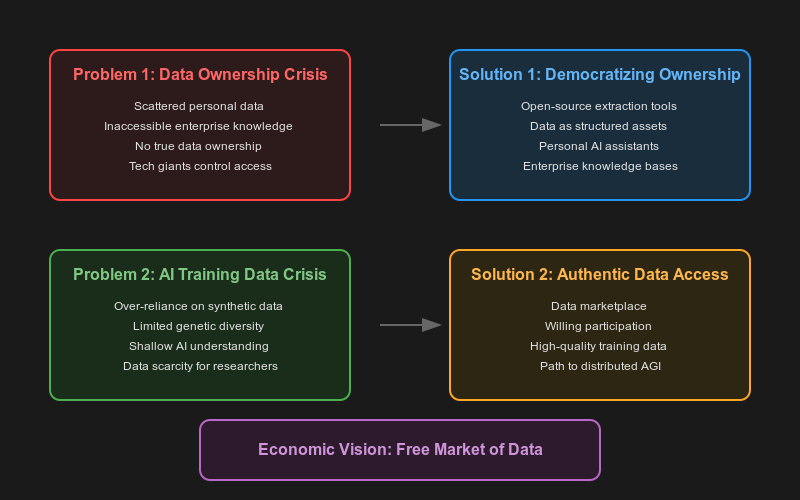
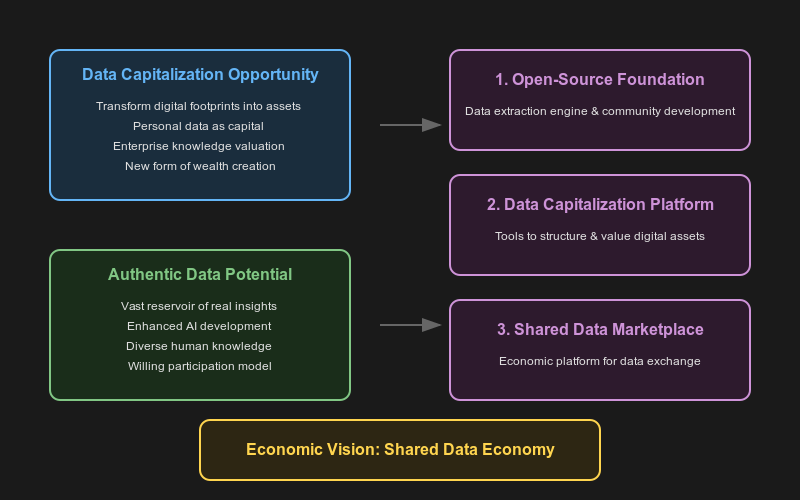
Refactor mission section in README and add mission diagram

diff --git a/MISSION.md b/MISSION.md
@@ -2,44 +2,45 @@
 
 ![Mission Diagram](./docs/assets/pitch-dark.svg)
 
-## The Two Critical Challenges in AI's Future
+### 1. The Data Capitalization Opportunity
 
-### 1. The Data Ownership Crisis
+We live in an unprecedented era of digital wealth creation. Every day, individuals and enterprises generate massive amounts of valuable digital footprints across various platforms, social media channels, messenger apps, and cloud services. While people can interact with their data within these platforms, there's an immense untapped opportunity to transform this data into true capital assets. Just as physical property became a foundational element of wealth creation, personal and enterprise data has the potential to become a new form of capital on balance sheets.
 
-In today's digital world, there's a fundamental disconnect between data generation and data ownership. Individuals and enterprises generate vast amounts of valuable information, yet they lack true ownership and control over this data. For individuals, digital footprints are scattered across various platforms, social media channels, messenger apps, and cloud storage services. While they can view and interact with this information within each platform, they cannot truly own, analyze, or leverage it as an asset.
+For individuals, this represents an opportunity to transform their digital activities into valuable assets. For enterprises, their internal communications, team discussions, and collaborative documents contain rich insights that could be structured and valued as intellectual capital. This wealth of information represents an unprecedented opportunity for value creation in the digital age.
 
-The situation is equally challenging for enterprises. Companies generate immense amounts of valuable information through internal communications, team chats, and shared files, but this knowledge remains unstructured and inaccessible. The inability to fully harness this data prevents organizations from building specialized AI tools or leveraging their collective knowledge effectively. Meanwhile, tech giants maintain privileged access to and profit from this data, creating an imbalance in the digital economy.
+### 2. The Potential of Authentic Data
 
-### 2. The AI Training Data Quality Crisis
+While synthetic data has played a crucial role in AI development, there's an enormous untapped potential in the authentic data generated by individuals and organizations. Every message, document, and interaction contains unique insights and patterns that could enhance AI development. The challenge isn't a lack of data - it's that most authentic human-generated data remains inaccessible for productive use.
 
-As AI development accelerates, we face a growing crisis in training data quality. The increasing reliance on synthetic data, while necessary given current limitations, raises serious concerns about the future of AI development. Synthetic data, by its nature, lacks the genetic diversity and authentic complexity found in real human-generated content. This limitation could lead to AI systems that appear sophisticated but lack deep understanding and genuine intelligence.
+By enabling willing participation in data sharing, we can unlock this vast reservoir of authentic human knowledge. This represents an opportunity to enhance AI development with diverse, real-world data that reflects the full spectrum of human experience and knowledge.
 
-The irony is that while AI researchers struggle with data scarcity and turn to synthetic alternatives, vast amounts of authentic, human-generated data remain locked away in personal and enterprise digital spaces. This disconnection between available authentic data and AI development needs threatens to create a bottleneck in the advancement toward more sophisticated and genuinely intelligent AI systems.
+## Our Pathway to Data Democracy
 
-## Our Two-Pronged Solution
+### 1. Open-Source Foundation
 
-### 1. Democratizing Data Ownership
+Our first step is creating an open-source data extraction engine that empowers developers and innovators to build tools for data structuring and organization. This foundation ensures transparency, security, and community-driven development. By making these tools openly available, we enable the technical infrastructure needed for true data ownership and capitalization.
 
-We are creating foundational tools for true data ownership and control. Through our open-source data extraction engine, we enable individuals and organizations to structure, retrieve, and fully own their digital footprints. This technology allows users to consolidate their scattered data into organized, usable assets that they can analyze, share, or leverage as they see fit.
+### 2. Data Capitalization Platform
 
-Our solution transforms raw digital information into structured, valuable assets. For individuals, this means the ability to build personal AI assistants or monetize their data. For enterprises, it enables the creation of private language models based on their collective knowledge, enhancing productivity and innovation while maintaining data security.
+Building on this open-source foundation, we're developing a platform that helps individuals and enterprises transform their digital footprints into structured, valuable assets. This platform will provide the tools and frameworks needed to organize, understand, and value personal and organizational data as true capital assets.
 
-### 2. Expanding Access to Authentic Data
+### 3. Creating a Data Marketplace
 
-By empowering individuals and organizations to own their data, we simultaneously create new opportunities for willing participation in AI development. Our platform facilitates a marketplace where individuals and enterprises can choose to share their authentic, structured data with researchers and developers. This creates a new source of high-quality, diverse training data for AI systems, reducing reliance on synthetic alternatives.
+The final piece is establishing a marketplace where individuals and organizations can willingly share their data assets. This creates opportunities for:
+- Individuals to earn equity, revenue, or other forms of value from their data
+- Enterprises to access diverse, high-quality data for AI development
+- Researchers to work with authentic human-generated data
+- Startups to build innovative solutions using real-world data
 
-This approach not only solves the data quality crisis but also ensures that AI development benefits from the rich complexity of real-world data. By enabling access to diverse, authentic data sources, we support the development of more sophisticated and genuinely intelligent AI systems.
+## Economic Vision: A Shared Data Economy
 
-## Economic Vision: Towards a Free Market of Data
+We envision a future where data becomes a fundamental asset class in a thriving shared economy. This transformation will democratize AI development by enabling willing participation in data sharing, ensuring that the benefits of AI advancement flow back to data creators. Just as property rights revolutionized economic systems, establishing data as a capital asset will create new opportunities for wealth creation and economic participation.
 
-Just as the establishment of property rights by classical economists like Adam Smith revolutionized the market economy, we believe that establishing true data ownership will transform the digital economy. By turning data into a legitimate, tradeable asset class, we create the foundation for a new economic paradigm where individuals and organizations can participate fully in the AI economy.
+This shared data economy will:
+- Enable individuals to capitalize on their digital footprints
+- Create new revenue streams for data creators
+- Provide AI developers with access to diverse, authentic data
+- Foster innovation through broader access to real-world data
+- Ensure more equitable distribution of AI's economic benefits
 
-This transformation creates a regulated, ethical marketplace where:
-- Individuals can monetize their digital footprints while maintaining control over their privacy
-- Enterprises can leverage their internal knowledge for competitive advantage
-- Researchers can access diverse, high-quality training data
-- AI development becomes more democratic and distributed
-
-The path to Artificial General Intelligence (AGI) lies not in concentrated data control but in the orchestration of diverse, community-driven models trained on authentic human data. By democratizing data ownership and creating a free market for data exchange, we lay the groundwork for a future where AGI emerges from the collective intelligence of humanity rather than the limited perspective of a few dominant players.
-
-Our vision is to create an ecosystem where data becomes a true asset class, regulated and valued appropriately, leading to a more equitable distribution of power in the AI economy. This democratization of data ownership is the first crucial step toward democratizing AI itself, ensuring that the benefits of artificial intelligence are accessible to all and that its development reflects the full spectrum of human knowledge and experience.
+Our vision is to facilitate this transformation from the ground up - starting with open-source tools, progressing to data capitalization platforms, and ultimately creating a thriving marketplace where data becomes a true asset class in a shared economy. This approach ensures that the future of AI is built on a foundation of authentic human knowledge, with benefits flowing back to the individuals and organizations who create and share their valuable data.

diff --git a/README.md b/README.md
@@ -401,17 +401,33 @@ For questions, suggestions, or feedback, feel free to reach out:
 
 Happy Crawling! 🕸🚀
 
-## Mission
 
-Our mission is to address two critical challenges in AI's future: the data ownership crisis and the AI training data quality crisis. While individuals and enterprises lack true ownership of their valuable digital footprints, AI researchers increasingly rely on synthetic data due to limited access to authentic human-generated content. 
+# Mission
 
-Our open-source solution tackles both problems by democratizing data ownership through powerful extraction tools while creating a marketplace for willing data sharing. By transforming personal and enterprise data into structured, tradeable assets, we're laying the foundation for a free market of data where individuals can monetize their digital footprints, enterprises can leverage their collective knowledge, and researchers can access diverse, high-quality training data.
+Our mission is to unlock the untapped potential of personal and enterprise data in the digital age. In today's world, individuals and organizations generate vast amounts of valuable digital footprints, yet this data remains largely uncapitalized as a true asset. 
 
-This democratization of data ownership is the crucial first step toward democratizing AI itself, ensuring its development reflects the full spectrum of human knowledge and experience. Through this approach, we're building a future where AI advancement is driven by authentic human data rather than synthetic alternatives.
+Our open-source solution empowers developers and innovators to build tools for data extraction and structuring, laying the foundation for a new era of data ownership. By transforming personal and enterprise data into structured, tradeable assets, we're creating opportunities for individuals to capitalize on their digital footprints and for organizations to unlock the value of their collective knowledge.
+
+This democratization of data represents the first step toward a shared data economy, where willing participation in data sharing drives AI advancement while ensuring the benefits flow back to data creators. Through this approach, we're building a future where AI development is powered by authentic human knowledge rather than synthetic alternatives.
+
+![Mission Diagram](./docs/assets/pitch-dark.svg)
+
+For a detailed exploration of our vision, opportunities, and pathway forward, please see our [full mission statement](./MISSION.md).
+
+## Key Opportunities
+
+- **Data Capitalization**: Transform digital footprints into valuable assets that can appear on personal and enterprise balance sheets
+- **Authentic Data**: Unlock the vast reservoir of real human insights and knowledge for AI advancement
+- **Shared Economy**: Create new value streams where data creators directly benefit from their contributions
+
+## Development Pathway
+
+1. **Open-Source Foundation**: Building transparent, community-driven data extraction tools
+2. **Data Capitalization Platform**: Creating tools to structure and value digital assets
+3. **Shared Data Marketplace**: Establishing an economic platform for ethical data exchange
 
 For a detailed exploration of our vision, challenges, and solutions, please see our [full mission statement](./MISSION.md).
 
-![Mission Diagram](./docs/assets/pitch-dark.svg)
 
 ## Star History
 
